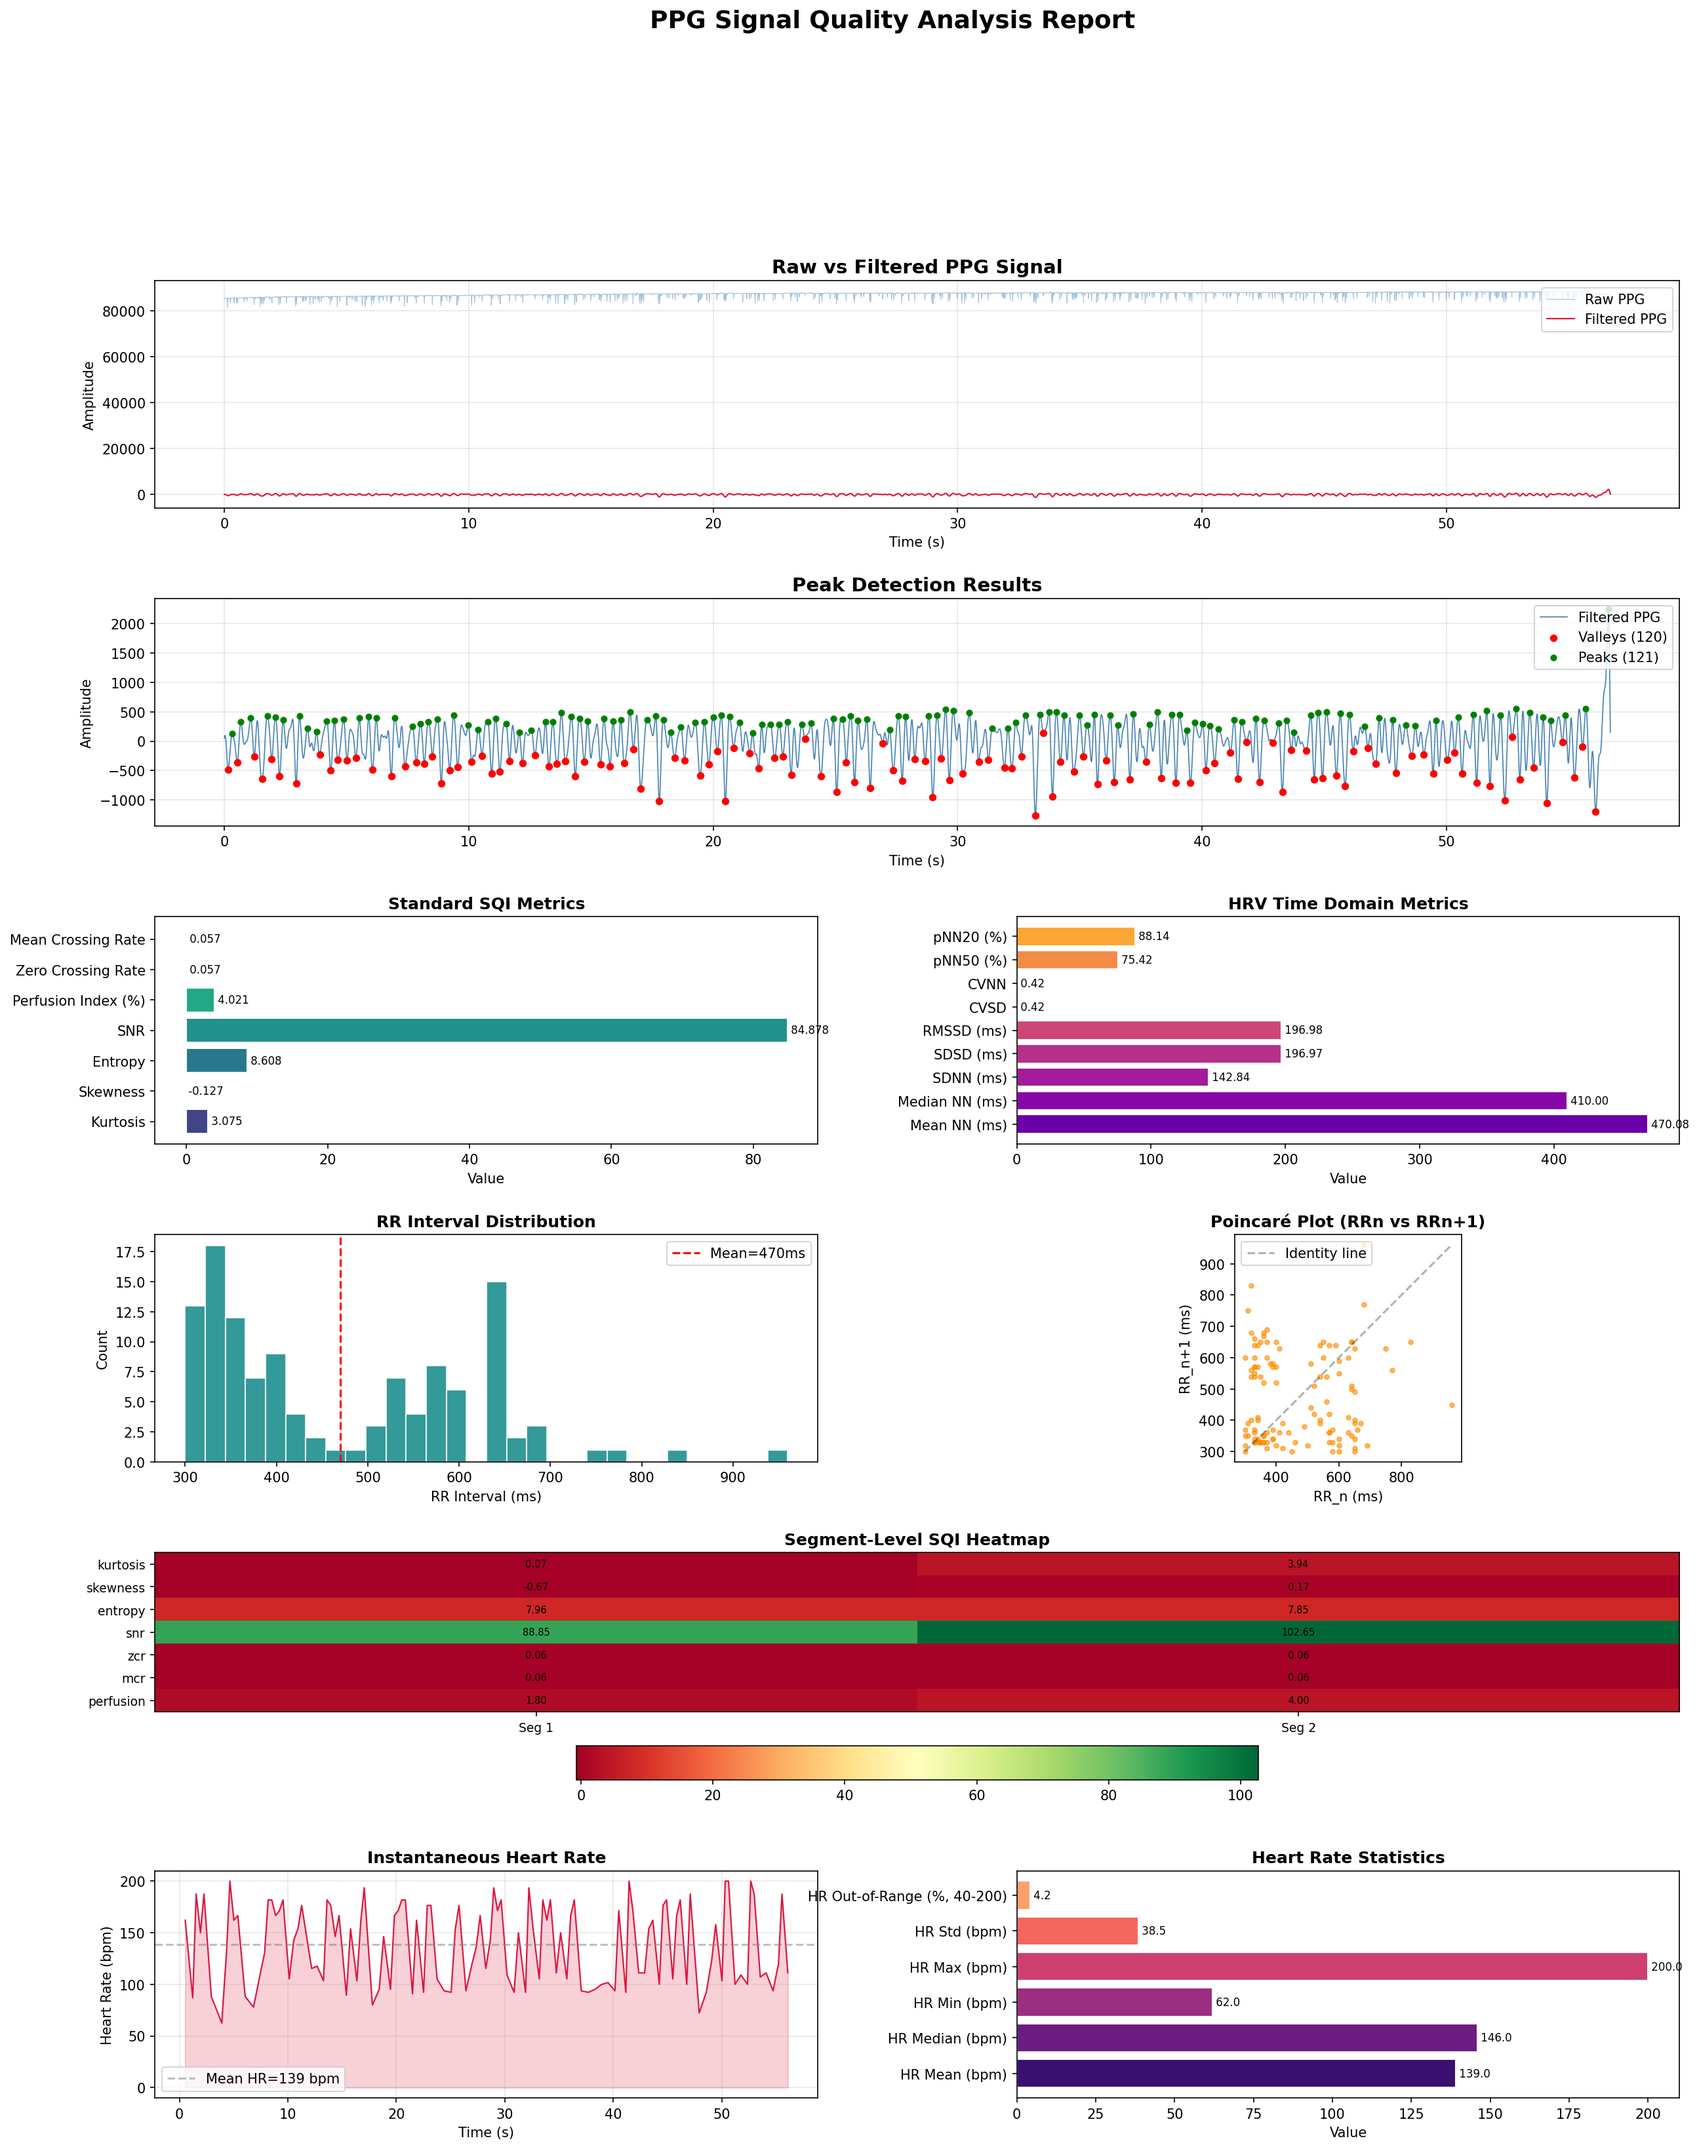
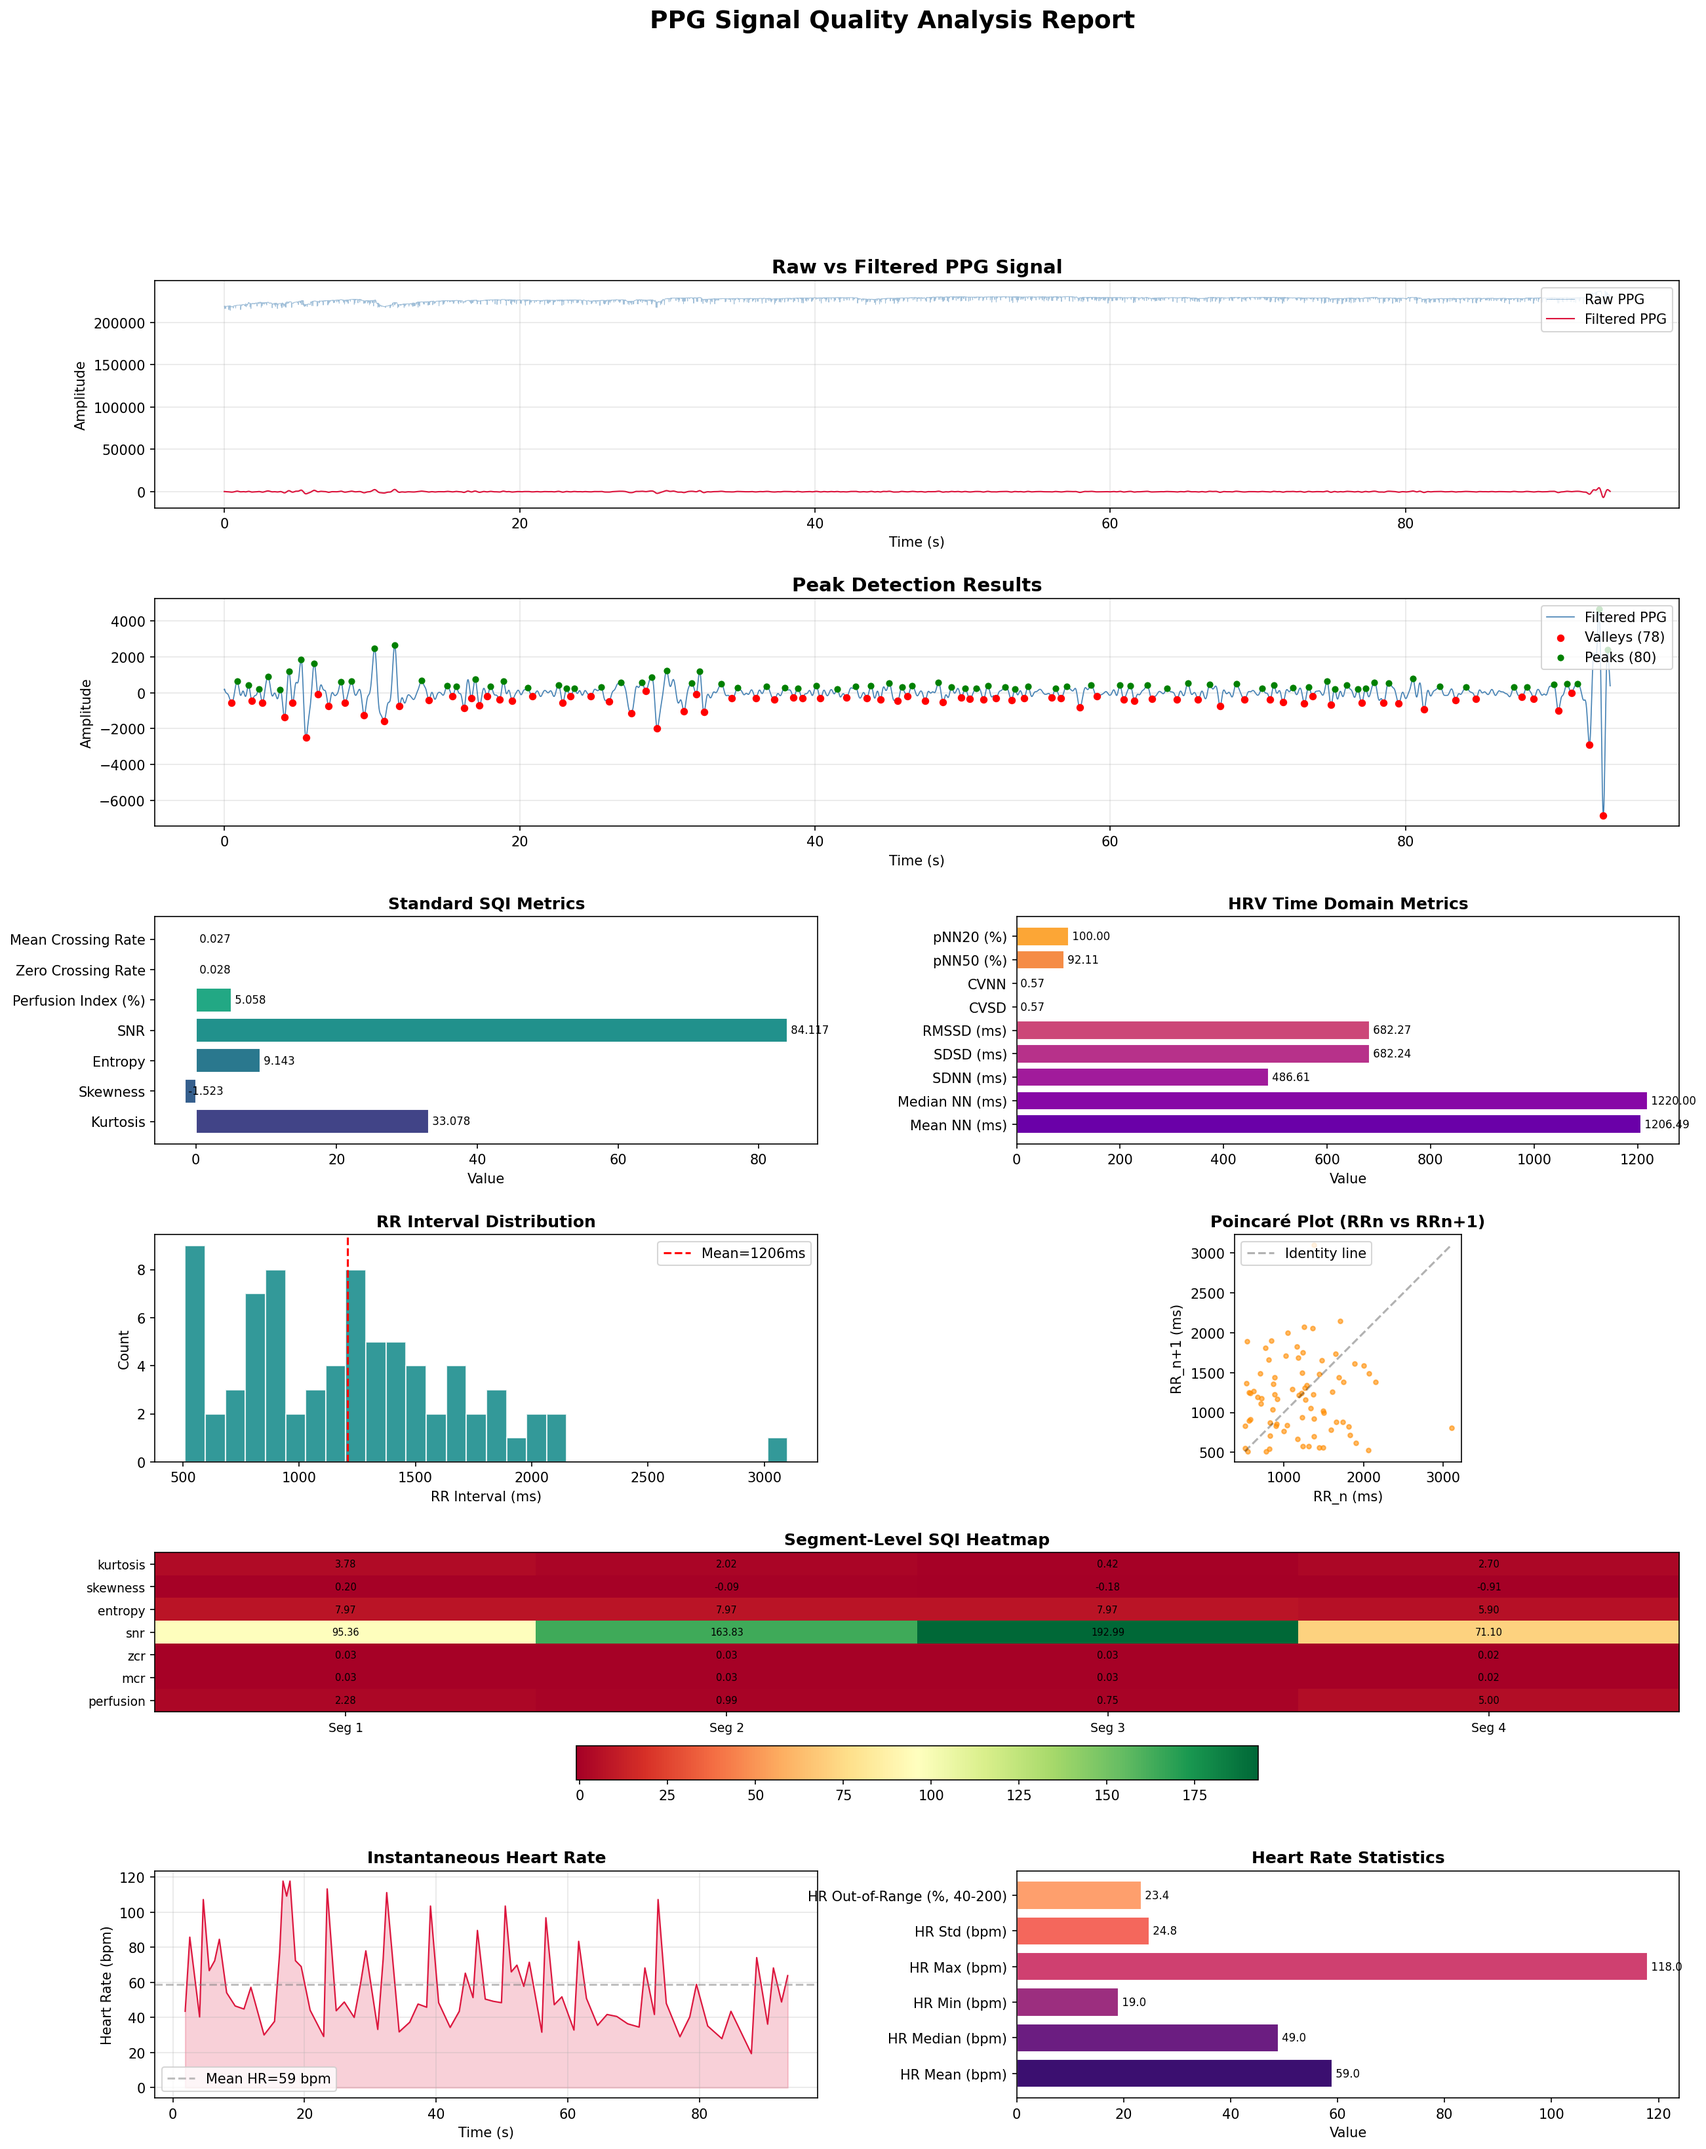
add more eval

diff --git a/main.py b/main.py
@@ -63,15 +63,55 @@ warnings.filterwarnings("ignore")
 # ════════════════════════════════════════════════════════════════════
 # 0. Load & inspect raw data (bypass PPG_reader for correct sampling rate)
 # ════════════════════════════════════════════════════════════════════
-file_in = os.path.abspath("/Users/lijiye/coding/zig_bt_client/Raw_data.csv")
+file_in = os.path.abspath("Raw_data.csv")
 
 # Read CSV directly — PPG_reader's calculate_sampling_rate uses min(diff)
 # which picks up timestamp jitter (1ms) → bogus 1001 Hz
 df_raw = pd.read_csv(file_in)
 df_raw.columns = df_raw.columns.str.strip()
 
-raw_signal = df_raw["data"].values.astype(float)
-timestamps_ms = df_raw["timestamp"].values.astype(float)
+# Try to adapt to different CSV formats (Raw_data.csv vs s17_run.csv)
+if "pleth_3" in df_raw.columns:
+    raw_signal = df_raw["pleth_3"].values.astype(float)
+elif "data" in df_raw.columns:
+    raw_signal = df_raw["data"].values.astype(float)
+else:
+    raise ValueError("Could not find signal data column. Expected 'pleth_3' or 'data'.")
+
+if "time" in df_raw.columns:
+    time_col = df_raw["time"]
+elif "timestamp" in df_raw.columns:
+    time_col = df_raw["timestamp"]
+else:
+    raise ValueError("Could not find timestamp column. Expected 'time' or 'timestamp'.")
+
+# Parse timestamps
+if np.issubdtype(time_col.dtype, np.number):
+    timestamps_numeric = time_col.values.astype(float)
+    # Infer scale based on typical magnitude
+    # A typical ms timestamp is ~ 1.6e12 (13 digits)
+    # A typical us timestamp is ~ 1.6e15 (16 digits)
+    # A typical ns timestamp is ~ 1.6e18 (19 digits)
+    mean_ts = np.nanmean(timestamps_numeric)
+    if mean_ts > 1e17:  # Nanoseconds
+        timestamps_ms = timestamps_numeric / 1e6
+        print("  [Data Load] Detected nanosecond timestamps. Converting to ms.")
+    elif mean_ts > 1e14:  # Microseconds
+        timestamps_ms = timestamps_numeric / 1000.0
+        print("  [Data Load] Detected microsecond timestamps. Converting to ms.")
+    else: # Milliseconds or Seconds (if seconds, let's treat 1e10 range as threshold)
+        if mean_ts < 1e10: # Seconds
+             timestamps_ms = timestamps_numeric * 1000.0
+             print("  [Data Load] Detected second timestamps. Converting to ms.")
+        else:
+             timestamps_ms = timestamps_numeric
+             print("  [Data Load] Detected millisecond timestamps.")
+else:
+    # If it's a string like '2021-01-01 12:49:32.211466', convert to datetime then ms
+    dt = pd.to_datetime(time_col)
+    # Convert to relative milliseconds from the start to match existing logic
+    timestamps_ms = (dt - dt.iloc[0]).dt.total_seconds().values * 1000.0
+    print("  [Data Load] Parsed string datetimes to relative ms.")
 
 # Compute duration and detect timestamp issues
 ts_diffs_ms = np.diff(timestamps_ms)
@@ -109,7 +149,7 @@ print("1. Signal Preprocessing")
 print("─" * 70)
 
 # Step 1a: Bandpass filter (0.5 – 5 Hz) — isolate PPG heart rate band using scipy
-lowcut, highcut = 0.5, 5.0
+lowcut, highcut = 0.5, 2.5
 nyq = 0.5 * sampling_rate
 b, a = butter(4, [lowcut / nyq, highcut / nyq], btype="band")
 filtered_signal = filtfilt(b, a, raw_signal)
@@ -202,11 +242,11 @@ print("─" * 70)
 
 # Detect valleys (troughs) by finding peaks in the inverted signal to use as primary fiducials
 # Set minimum distance to 0.3s (max heart rate ~ 200 bpm)
-min_dist = int(sampling_rate * 0.3)
-peaks, _ = find_peaks(-processed_signal, distance=min_dist, prominence=np.std(processed_signal)*0.5)
+min_dist = int(sampling_rate * 0.5)
+peaks, _ = find_peaks(-processed_signal, distance=min_dist, prominence=np.std(processed_signal)*0.75)
 
 # Detect actual physical peaks
-troughs, _ = find_peaks(processed_signal, distance=min_dist, prominence=np.std(processed_signal)*0.5)
+troughs, _ = find_peaks(processed_signal, distance=min_dist, prominence=np.std(processed_signal)*0.75)
 
 print(f"  ✓ Best detector : Scipy find_peaks (using valleys, d={min_dist/sampling_rate:.2f}s)")
 print(f"  Valleys detected (used as peaks): {len(peaks)}")
@@ -713,7 +753,7 @@ print("  Report saved to: ppg_analysis_report.png")
 plt.show()
 
 # ════════════════════════════════════════════════════════════════════
-# Summary
+# Summary & Rule-Based Quality Classification
 # ════════════════════════════════════════════════════════════════════
 print("\n" + "=" * 70)
 print("ANALYSIS COMPLETE")
@@ -725,12 +765,153 @@ except NameError:
     pass
 print(f"  Total metrics computed: {total_metrics}")
 print(f"  Segments analyzed    : {n_segments}")
-print(f"  Signal quality       : ", end="")
 
-# Simple quality assessment based on key metrics
-if standard_results.get("SNR", 0) > 5 and standard_results.get("Kurtosis", 0) > 0:
-    print("GOOD ✓")
-elif standard_results.get("SNR", 0) > 2:
-    print("FAIR ⚠")
-else:
-    print("POOR ✗")
+# ── Rule/RuleSet 多指標質量評估 ─────────────────────────────────
+from vital_sqi.rule import Rule, RuleSet
+
+def make_range_rule(name, low, high):
+    """Accept values in [low, high), reject outside. Covers -inf to +inf."""
+    r = Rule(name)
+    r.update_def(
+        op_list=["<", ">", ">=", "<"],
+        value_list=[low, low, high, high],
+        label_list=["reject", "accept", "reject", "accept"]
+    )
+    return r
+
+def make_gt_rule(name, threshold):
+    """Accept values > threshold, reject <= threshold."""
+    r = Rule(name)
+    r.update_def(
+        op_list=["<", ">"],
+        value_list=[threshold, threshold],
+        label_list=["reject", "accept"]
+    )
+    return r
+
+def make_lt_rule(name, threshold):
+    """Accept values < threshold, reject >= threshold."""
+    r = Rule(name)
+    r.update_def(
+        op_list=["<", ">"],
+        value_list=[threshold, threshold],
+        label_list=["accept", "reject"]
+    )
+    return r
+
+# --- 嚴格規則集 (通過 = GOOD) ---
+strict_rules = {
+    1: make_range_rule("Skewness",           -0.26, 0.87),
+    2: make_range_rule("Kurtosis",           -1.25, 1.17),
+    3: make_gt_rule("SNR",                   2),
+    4: make_gt_rule("Perfusion",             0.5),
+    5: make_range_rule("Zero-Crossing-Rate", 0.03, 0.07),
+    6: make_range_rule("Mean-Crossing-Rate", 0.02, 0.07),
+}
+
+# --- 寬鬆規則集 (通過 = FAIR, 不通過 = POOR) ---
+loose_rules = {
+    1: make_range_rule("Skewness",           -1.0, 2.0),
+    2: make_range_rule("Kurtosis",           -2.0, 3.0),
+    3: make_gt_rule("SNR",                   0),
+    4: make_gt_rule("Perfusion",             0.05),
+    5: make_range_rule("Zero-Crossing-Rate", 0.01, 0.15),
+    6: make_range_rule("Mean-Crossing-Rate", 0.01, 0.15),
+}
+
+# 加入 R-peak 相關規則 (如果有數據)
+rule_idx = len(strict_rules)
+if rpeak_results.get("MSQ (Multi-Detector)") is not None:
+    rule_idx += 1
+    strict_rules[rule_idx] = make_gt_rule("MSQ", 0.5)
+    loose_rules[rule_idx]  = make_gt_rule("MSQ", 0.27)
+
+if rpeak_results.get("Ectopic Ratio (Malik)") is not None:
+    rule_idx += 1
+    strict_rules[rule_idx] = make_lt_rule("Ectopic", 0.1)
+    loose_rules[rule_idx]  = make_lt_rule("Ectopic", 0.3)
+
+if hr_results.get("HR Out-of-Range (%, 40-200)") is not None:
+    rule_idx += 1
+    strict_rules[rule_idx] = make_lt_rule("HR-Range", 5)
+    loose_rules[rule_idx]  = make_lt_rule("HR-Range", 20)
+
+strict_ruleset = RuleSet(strict_rules)
+loose_ruleset  = RuleSet(loose_rules)
+
+def evaluate_quality(sqi_row, strict_rs, loose_rs):
+    """三級分類: GOOD / FAIR / POOR"""
+    try:
+        if strict_rs.execute(sqi_row) == "accept":
+            return "GOOD ✓"
+    except:
+        pass
+    try:
+        if loose_rs.execute(sqi_row) == "accept":
+            return "FAIR ⚠"
+    except:
+        pass
+    return "POOR ✗"
+
+# 建立全局 SQI DataFrame
+global_sqi = {
+    "Skewness":           standard_results.get("Skewness", 0),
+    "Kurtosis":           standard_results.get("Kurtosis", 0),
+    "SNR":                standard_results.get("SNR", 0),
+    "Perfusion":          standard_results.get("Perfusion Index (%)", 0),
+    "Zero-Crossing-Rate": standard_results.get("Zero Crossing Rate", 0),
+    "Mean-Crossing-Rate": standard_results.get("Mean Crossing Rate", 0),
+}
+if rpeak_results.get("MSQ (Multi-Detector)") is not None:
+    global_sqi["MSQ"] = rpeak_results["MSQ (Multi-Detector)"]
+if rpeak_results.get("Ectopic Ratio (Malik)") is not None:
+    global_sqi["Ectopic"] = rpeak_results["Ectopic Ratio (Malik)"]
+if hr_results.get("HR Out-of-Range (%, 40-200)") is not None:
+    global_sqi["HR-Range"] = hr_results["HR Out-of-Range (%, 40-200)"]
+
+global_sqi_df = pd.DataFrame([global_sqi])
+overall_quality = evaluate_quality(global_sqi_df, strict_ruleset, loose_ruleset)
+
+print(f"\n  Signal Quality (Rule-Based): {overall_quality}")
+print(f"  ── Rules used: {len(strict_rules)} SQI metrics")
+print(f"     Skewness={global_sqi['Skewness']:.3f}  Kurtosis={global_sqi['Kurtosis']:.3f}  "
+      f"SNR={global_sqi['SNR']:.3f}")
+print(f"     Perfusion={global_sqi['Perfusion']:.3f}  ZCR={global_sqi['Zero-Crossing-Rate']:.3f}  "
+      f"MCR={global_sqi['Mean-Crossing-Rate']:.3f}")
+if "MSQ" in global_sqi:
+    print(f"     MSQ={global_sqi['MSQ']:.3f}", end="")
+if "Ectopic" in global_sqi:
+    print(f"  Ectopic={global_sqi['Ectopic']:.3f}", end="")
+if "HR-Range" in global_sqi:
+    print(f"  HR-OOR={global_sqi['HR-Range']:.1f}%", end="")
+if any(k in global_sqi for k in ["MSQ", "Ectopic", "HR-Range"]):
+    print()
+
+# ── 每段 Segment 質量分類 ──────────────────────────────────────
+print(f"\n  ── Per-Segment Quality ──")
+seg_qualities = []
+for seg in segment_sqis:
+    seg_sqi = {
+        "Skewness":           seg.get("skewness", 0),
+        "Kurtosis":           seg.get("kurtosis", 0),
+        "SNR":                seg.get("snr", 0),
+        "Perfusion":          seg.get("perfusion", 0),
+        "Zero-Crossing-Rate": seg.get("zcr", 0),
+        "Mean-Crossing-Rate": seg.get("mcr", 0),
+    }
+    # Segment 級別只用統計指標
+    seg_strict = RuleSet({k: v for k, v in strict_rules.items() if k <= 6})
+    seg_loose  = RuleSet({k: v for k, v in loose_rules.items() if k <= 6})
+
+    seg_df = pd.DataFrame([seg_sqi])
+    sq_quality = evaluate_quality(seg_df, seg_strict, seg_loose)
+    seg_qualities.append(sq_quality)
+    print(f"     Segment {seg['segment']:2d} [{seg['start_s']:.0f}s–{seg['end_s']:.0f}s]: {sq_quality}")
+
+good_count = sum(1 for q in seg_qualities if "GOOD" in q)
+fair_count = sum(1 for q in seg_qualities if "FAIR" in q)
+poor_count = sum(1 for q in seg_qualities if "POOR" in q)
+print(f"\n  Summary: {good_count} GOOD / {fair_count} FAIR / {poor_count} POOR "
+      f"(out of {len(seg_qualities)} segments)")
+print(f"  Usable segments: {good_count + fair_count}/{len(seg_qualities)} "
+      f"({100*(good_count+fair_count)/max(len(seg_qualities),1):.0f}%)")
